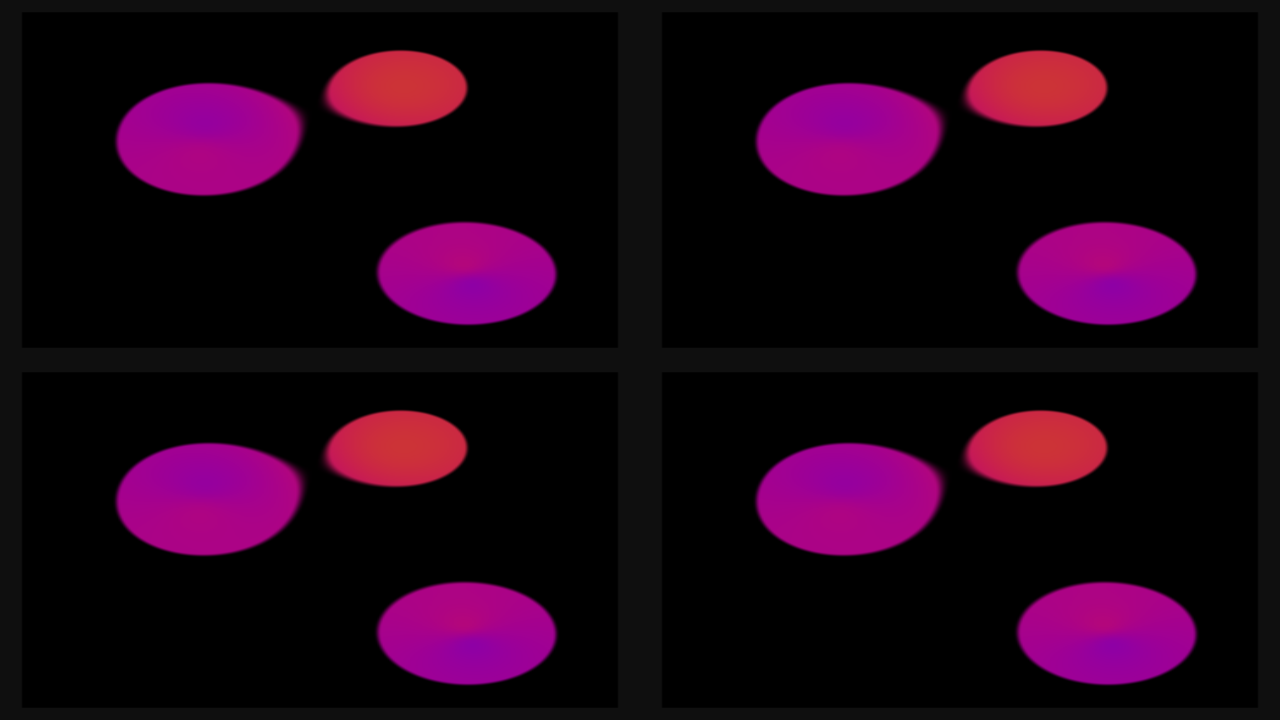
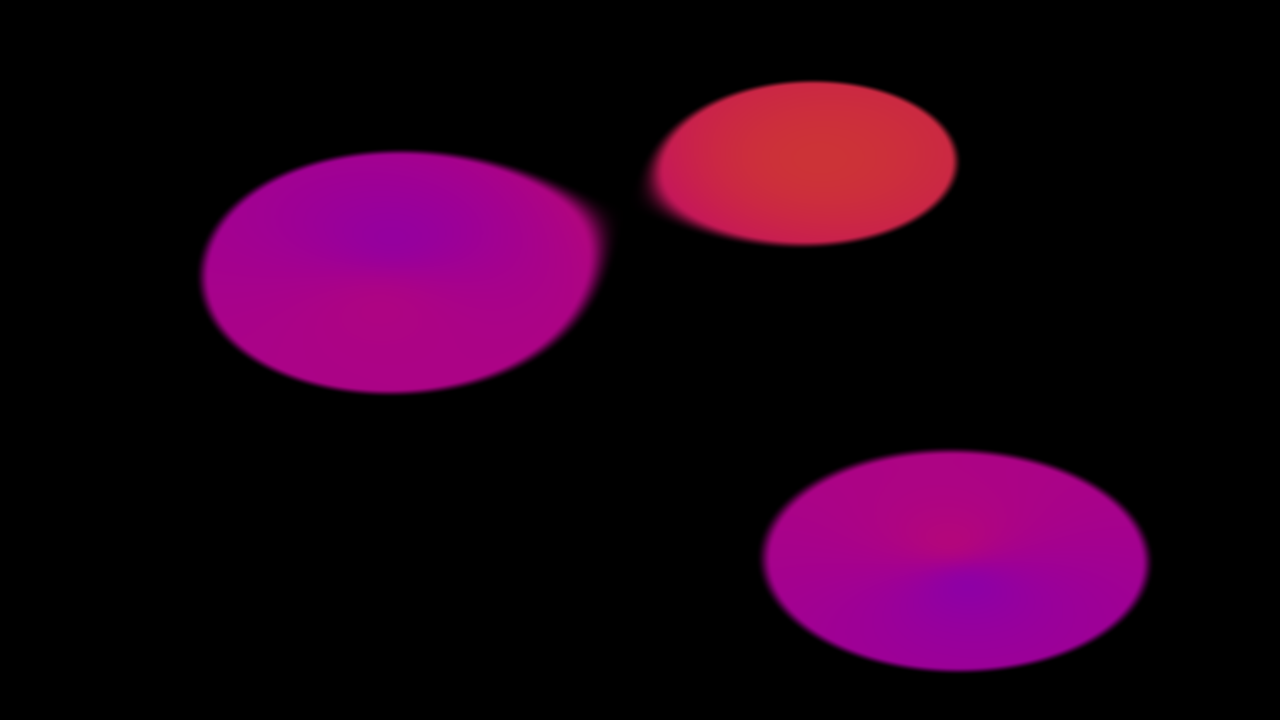
docs(s-rta-0927 outputs-c1-fix): fix round 1b in the lane report + evidence (probe RED/GREEN/mutant, law RED/GREEN/teeth, ctest 691, fix-round shots)

diff --git a/.harmony/.reports/s-rta-0927/outputs-c1.md b/.harmony/.reports/s-rta-0927/outputs-c1.md
@@ -172,15 +172,9 @@ Harmony: behavioral gate on build-lane (probe-outputs + existing battery), indep
 
 ## Fix round (outputs-c1-fix, round 1)
 
-STATUS: PENDING
+Two executors ran this round. Section 1a was written and committed (`5e1b7a1`) by a concurrent executor: no code, a note only. Section 1b below follows Harmony's ruling (probe fixed like with like, the Release never-key check added) and SUPERSEDES 1a wherever the two differ.
 
-### F1. critic MUST (720p grey border) -- probe side
-### F2. GL SHOULD (jassert is a Release no-op)
-### F3. conformance NITs
-### F4. gates re-run
-### F5. commits
-
-### Fix round (outputs-c1-fix, critic round 1: `critic-outputs-c1-r1.md`; stamped 2026-09-27 11:18:22 from `date`)
+### Fix round 1a (outputs-c1-fix, critic round 1: `critic-outputs-c1-r1.md`; stamped 2026-09-27 11:18:22 from `date`)
 
 STATUS: DONE. There is NO CODE CHANGE this round. The one MUST is a false positive, and the pixel evidence below refutes it. The one SHOULD asked only for a note, and the note is below. No gate is affected (no source, test, probe or build file changed), so no ctest, probe or live run was repeated. No app was launched and the live lock was never taken. `output_window_opened` = false.
 
@@ -200,3 +194,51 @@ STATUS: DONE. There is NO CODE CHANGE this round. The one MUST is a false positi
 **SHOULD (the `jassert` in the OutputWindow ctor is a no-op in Release): NOTED, no code change (as the finding asks).** The never-key guarantee in Release rests entirely on the `getDesktopWindowStyleFlags()` override (`src/ui/OutputWindow.cpp:69-74`). The `jassert` at `:49-50` is a Debug-only tripwire. If the timing of peer creation ever changed, it would give no Release safety net. The override is what `test_output_law` holds. Its teeth include "the flag kept only in the jassert -> 1 failed" (`TEETH-test_output_law-guards.txt`), so a refactor that left only the jassert would go RED in ctest.
 
 Fix-round state: commits = this report and the two evidence files only. ctest unchanged at `100% tests passed, 0 tests failed out of 690` (no source changed since `e14027c`). Shots unchanged (no UI change). No `.venv` link present. Lock not taken. No Audio-DNA launched.
+
+### Fix round 1b (outputs-c1-fix, following Harmony's ruling; stamped 2026-09-27 11:24 from `date`)
+
+STATUS: DONE
+RESULT: The critic's 720p MUST was a false positive. Nothing in the app changed for it: the probe row now compares like with like. It triggers A before the resize and asserts that the 720p frame is one full-bleed A (d 0.013). The GL SHOULD is fixed in Release: the OutputWindow constructor checks the peer's never-key flag in every build type, and test_output_law has a new row that holds that check. The conformance NIT 2 note is in the notebook. NIT 1 (`EmbeddedShaders.h:3`) is outside the fence and is left alone.
+FACTS: commits `79b4410` (OutputWindow.cpp + test_output_law.cpp), `67bd544` (probe-outputs.py/.json), `52dd980` (notebook + pitfalls.md), plus this report commit. Evidence is in `.harmony/.reports/s-rta-0927/outputs-c1-evidence/fixround-*.txt`. ctest is `100% tests passed, 0 tests failed out of 691`. probe-outputs: RED on the pre-change app `PY 1 PASS / 9 FAIL`, GREEN on the lane app `PY 10 PASS / 0 FAIL`, and the mutant probe `PY 9 PASS / 1 FAIL`.
+METHOD: Each gate ran RED first. test_output_law ran against the e14027c OutputWindow.cpp before the code change. probe-outputs ran against the main checkout's pre-change app. Mutants ran on COPIES only, and the deliverables' sha256 was the same before and after. Full ctest ran serially. Each live run took the lock (`outputs-c1-fix`) for that run only. Every PNG was decoded.
+CONFIDENCE+VERIFY: HIGH. Re-run `bash .harmony/probe-outputs.sh` with the lock held and OUTP_APP=build-lane. The o_probe_survives_resolution_change line must show `d(f_720, fixture A P16_01_baseline.png stretched to 1280x720)` of about 0.013.
+UNKNOWNS/NOT-DONE: The repair branch (log + `addToDesktop()`) is never taken today because the peer already carries the flag. By law it cannot be exercised live, since that would mean creating the Output window. It is held in source by test_output_law, and the string check shows it is compiled into the Release binary.
+NUANCE: 1a's claim that the "jassert-only refactor would go RED" was true only for dropping the flag from the override. A ctor with only the jassert was green in round 1. It is RED now (the new row).
+HANDOFF-NEEDS: none
+
+**F1. Critic MUST (720p grey border): FALSE. Fixed on the probe side only, per the ruling.**
+- Cause: `o_probe_tracks_change` leaves col1 = B showing. Fixture B, `media/P16_02_Screen_Split_2x2.png`, is itself a 2x2 grid on a (15,15,15) frame. So the round-1 f720 was B, and the critic compared it with f0, which is A. Harmony's live diagnosis on main is in `/Users/boriskarpman/projects/RealTimeAudio/.harmony/.reports/s-rta-0927/canvas720-diag.md`.
+- Change (`67bd544`): the row runs `trig(0)` and waits `settleAfterTrigger` (1 s) before `set_composition_params 1280x720`. It then asserts `d(f_720, fixture A stretched to 1280x720 BILINEAR) <= contentTol (6)`, and the output line names the reference. The existing checks are unchanged: size, canvas, gen, and d(probe, f_720 upscaled) <= 6. No tolerance was changed. The JSON `_doc`, `resolution._why` and the docstring now say that fixture B is a 2x2 grid and that a B frame should only be compared with a B reference.
+- RED on the pre-change app (main checkout build, probe at this tree), verbatim: `FAIL  o_probe_survives_resolution_change: output_probe probe_1920x1080_of_720p: HTTP 404 {'raw': ''}`, then `PY 1 PASS / 9 FAIL`, `PROBE-OUTPUTS RED` (`fixround-RED-base-probe-outputs.txt`).
+- GREEN on the lane app, verbatim: `PASS  o_probe_survives_resolution_change: render_frame 1280x720 of col0 = A, d(f_720, fixture A P16_01_baseline.png stretched to 1280x720) 0.013 <= 6.0; probe canvas 1280x720, gen 1 -> 2, d(probe, f_720 upscaled) 0.013 <= 6.0`, then `PY 10 PASS / 0 FAIL`, `PROBE-OUTPUTS GREEN` (`fixround-GREEN-lane-probe-outputs.txt`).
+- Teeth: a mutant COPY of the probe with the `trig(0)` line removed, which is round 1's capture of B, run against the lane app. Verbatim: `FAIL  o_probe_survives_resolution_change: render_frame 1280x720 of col0 = A, d(f_720, fixture A P16_01_baseline.png stretched to 1280x720) 29.425 <= 6.0; ...`, then `PY 9 PASS / 1 FAIL`. The deliverable probe's sha256 (`d53ace27…`) was identical before and after (`fixround-TEETH-probe-no-trig0-mutant.txt`). The label "of col0 = A" states what the row intends. In the mutant, B is actually showing, and that is exactly what the FAIL catches.
+- Decoded pixels (GREEN run): `f720_render_frame.png` 1280x720 has corner (0,0,0), 0.000 of its pixels at (15,15,15), and an edge-ring mean of 0.00. `probe_1920x1080_of_720p.png` gives the same values. As a control, `fB_render_frame.png` still has 0.129 of its pixels at (15,15,15), which is B's own frame.
+
+**F2. GL SHOULD (the jassert is a Release no-op): FIXED, so the guarantee is checked in every build type (`79b4410`).**
+- `src/ui/OutputWindow.cpp`: after `setDropShadowEnabled(false)`, the ctor reads `getPeer()->getStyleFlags()` in every build type. If the peer is missing, or lacks `windowIgnoresKeyPresses`, the ctor logs `[OutputWindow] the peer lacks windowIgnoresKeyPresses -- re-adding the window to the desktop` to stderr and calls `TopLevelWindow::addToDesktop()`, which rebuilds the peer with the override's flags. This is the same re-add that JUCE's `setDropShadowEnabled` already does. The window is not visible at that point, so nothing is shown. The jassert stays after the repair as the Debug tripwire. The string is in the Release binary (`strings … | grep -c "peer lacks windowIgnoresKeyPresses"` = 1).
+- `tests/test_output_law.cpp` new row, "the constructor checks the peer's windowIgnoresKeyPresses in every build type": it strips every `jassert(...)` from the ctor body, then requires `getStyleFlags()`, `windowIgnoresKeyPresses` and `addToDesktop(` in what is left.
+  - RED on the e14027c OutputWindow.cpp, verbatim: `test cases: 1 | 1 failed` / `assertions: 7 | 4 passed | 3 failed`; whole binary `test cases: 11 | 10 passed | 1 failed`.
+  - GREEN: `All tests passed (7 assertions in 1 test case)`; whole binary `All tests passed (39 assertions in 11 test cases)`.
+  - Teeth on COPIES: control `All tests passed`; "runtime check removed (jassert only)" `7 | 4 passed | 3 failed`; "check that only logs (no repair)" `7 | 6 passed | 1 failed`; "check that repairs but never reads the flag" `7 | 5 passed | 2 failed`. OutputWindow.{h,cpp} sha256 was identical before and after (`fixround-{RED,GREEN-TEETH}-test_output_law-releasecheck.txt`).
+- `docs/claude/pitfalls.md` Pitfall 40 now names the Release check (`52dd980`).
+
+**F3. Conformance NITs.**
+- NIT 1 was left alone because it is outside the C1 fence. `src/render/EmbeddedShaders.h:3` still says "shared between Renderer and OutputRenderer", but OutputRenderer no longer exists. The other two mentions, `Renderer.cpp:126` and `EffectChain.h:17`, are accurate history that says the class went away in outputs-c1. Only `EmbeddedShaders.h:3` is stale, and it needs a one-line comment fix from whoever next owns that file.
+- NIT 2 is done (`52dd980`). The lane's notebook entry now says inline: if a lane merged first also added a Pitfall 40, renumber this one on merge, in CLAUDE.md, pitfalls.md, integration.md and rendering.md.
+
+**F4. Gates re-run (and why only these).**
+- ctest, full and serial, at `79b4410`: `100% tests passed, 0 tests failed out of 691`. That is 690 plus the new row. Later commits change only the probe and docs (`fixround-ctest-tail.txt`).
+- probe-outputs RED, GREEN and mutant runs, as above. `o_no_window_opened` passed in every run (22 / 75 / 70 Quartz samples, never more than 1 layer-0 window, no Output-named window). After each quit there were 0 Audio-DNA windows. No run saw foreign REST traffic.
+- Not re-run: the existing probe battery and the tests/visual Tier-1 set. The only app change is in the OutputWindow constructor, which runs only when the Output window is created, and no probe or visual test ever creates it (screen-safety law). Render, capture and canvas code are unchanged since the round-1 battery.
+- No perf numbers this round.
+- Shots: every PNG in `outputs-c1-evidence/png/` now comes from the fix-round GREEN run (`outputs.B6ArlG`). Only three bytes-differ from round 1: `f720_render_frame.png` and `probe_1920x1080_of_720p.png` (now A, full-bleed), and `main-window.png` (a fresh capture). The other eight are byte-identical to round 1. main-window shows clip cA active, the Preview showing A, and the TopBar Output set to "Off".
+
+**F5. Rig.**
+- The lock was taken as `outputs-c1-fix` for three runs: 11:22:04-11:22:17, 11:22:22-11:22:48 and 11:22:52-11:23:17. It was released after each one.
+- A first background attempt was killed while it was still waiting on routines-timing's lock. It never acquired the lock and never launched anything.
+- Launches used only `open -g … --args --test-mode` (inside probe-outputs.sh), and every quit went through osascript.
+- There was no Output window, no full-screen capture, no lldb and no synthetic input. No temporary hook was used.
+- The `.venv` link was not needed: probe-outputs.sh falls back to the main checkout's `.venv`. No `.venv` exists in the worktree.
+- build-lane is kept.
+
+INBOX-RECHECK: 1 addendum folded (Harmony's ruling: the MUST is false, fix on the probe side, take the SHOULD, list NIT 1).
